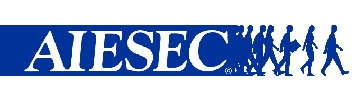
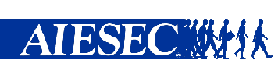
Fixing UI

Changed region(s): [[0.0, 0.2308, 1.0, 0.7692], [0.1164, 0.3077, 0.1745, 0.3846], [0.4073, 0.4615, 0.4364, 0.4872]]

diff --git a/styles/styles.css b/styles/styles.css
@@ -309,7 +309,7 @@ body {
   .logos {
     width: 100%;
     height: 100%;
-    top: 30%;
+    top: 40%;
     left: 10%;
     position: absolute;
     background: url(../images/logo_mobile.png) no-repeat;
@@ -320,7 +320,7 @@ body {
     height: 100%;
     font-size: 1em;
     position: absolute;
-    top: 45%;
+    top: 55%;
     left: 20%;
     margin-top: 10px;
   }
